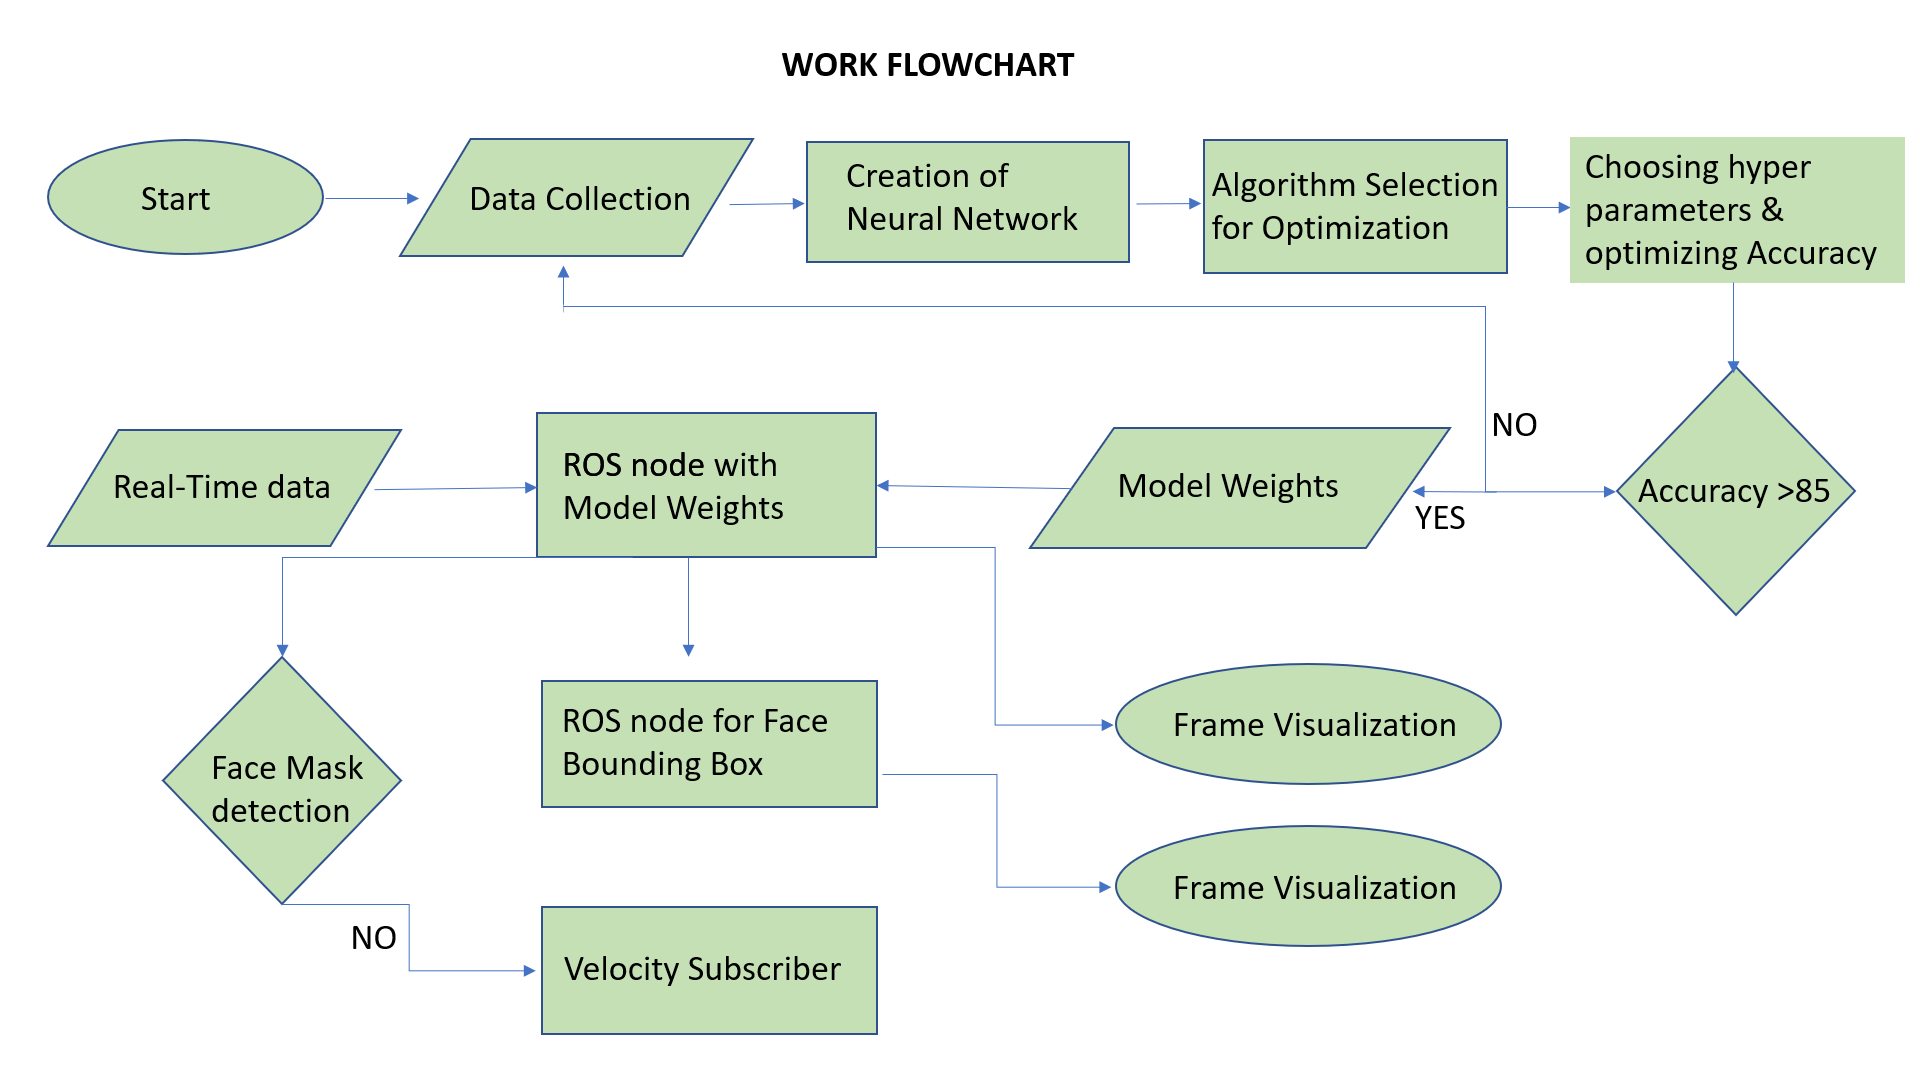
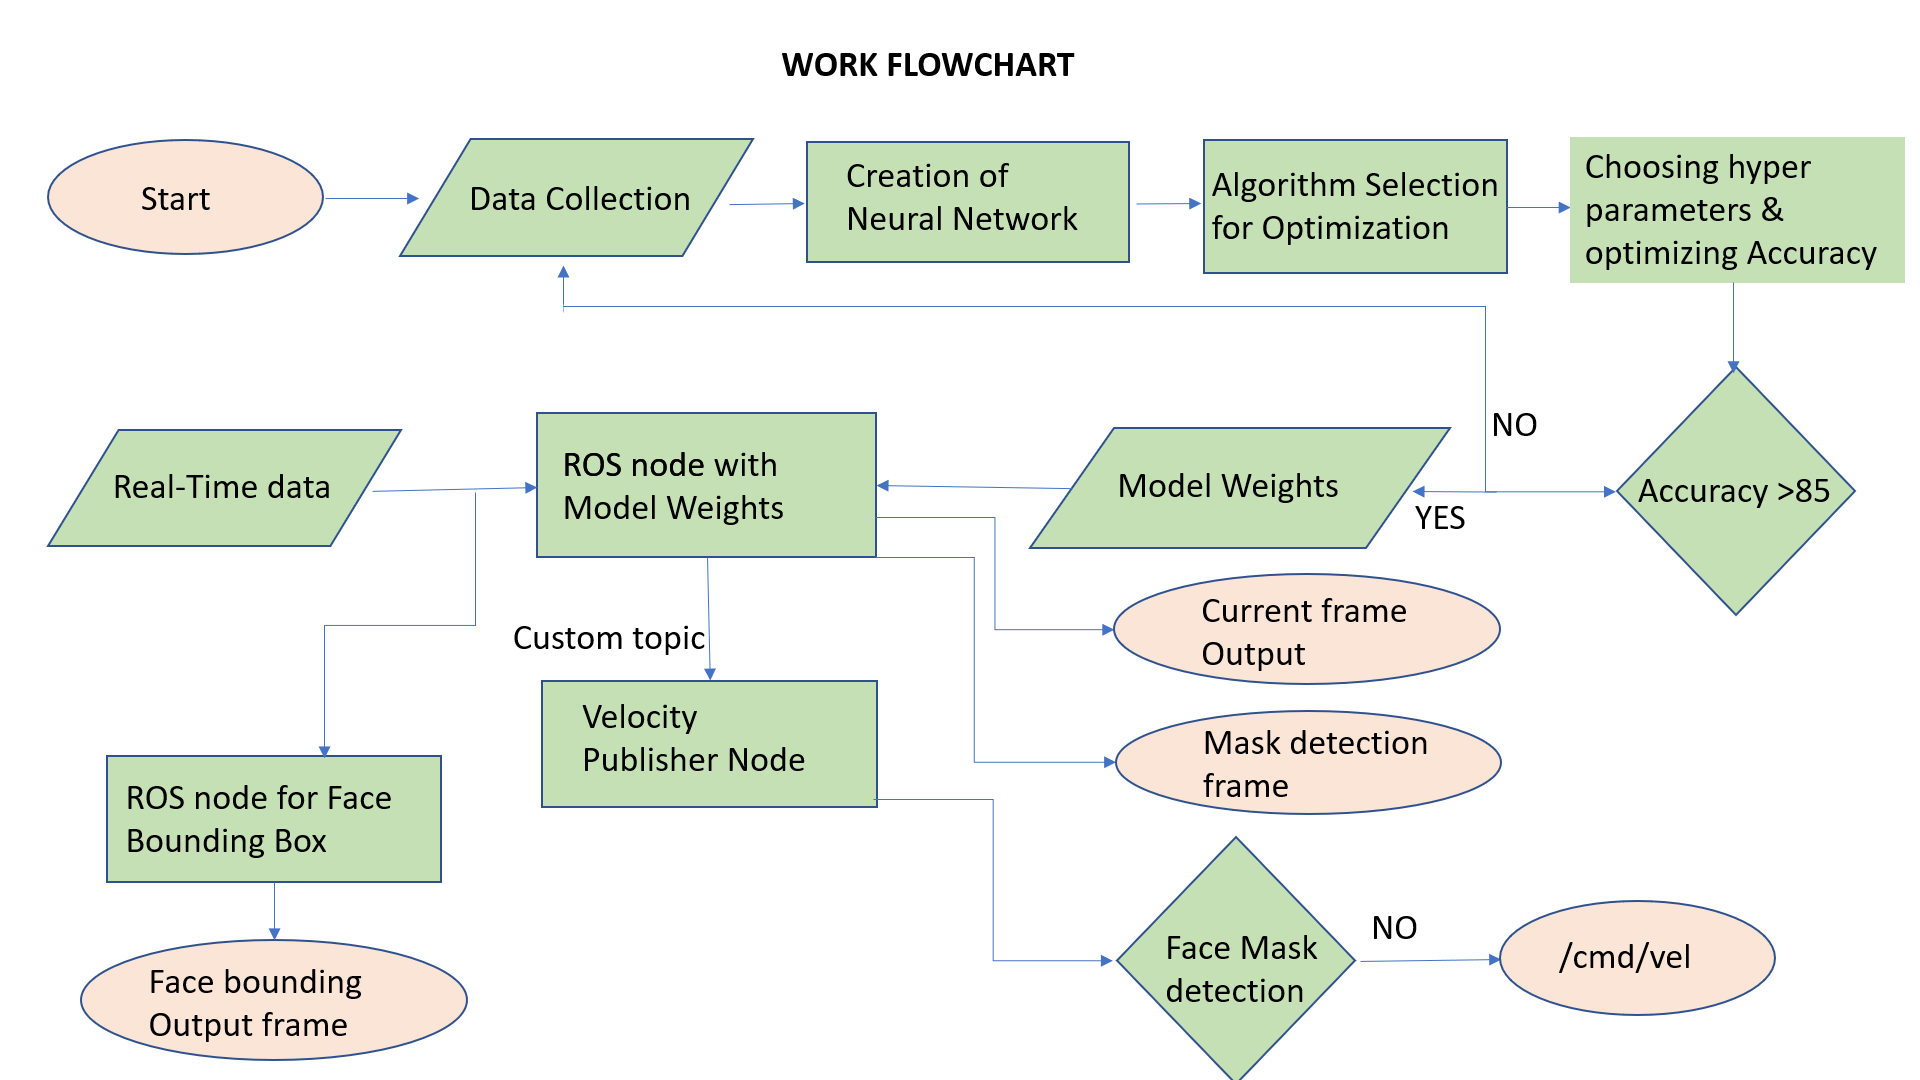
Add files via upload

diff --git a/index.html b/index.html
@@ -55,9 +55,7 @@
     </li>
     <li class="toctree-l2"><a class="reference internal" href="#f-videos-of-working-model">f. Videos of Working Model</a>
     </li>
-    <li class="toctree-l2"><a class="reference internal" href="#f-goals-process-and-results">f. Goals, Process and Results</a>
-    </li>
-    <li class="toctree-l2"><a class="reference internal" href="#project-layout">Project layout</a>
+    <li class="toctree-l2"><a class="reference internal" href="#g-goals-process-and-results">g. Goals, Process and Results</a>
     </li>
     </ul>
                 </li>
@@ -107,24 +105,25 @@
             <div class="section" itemprop="articleBody">
               
                 <h1 id="introduction">Introduction</h1>
-<p>The main objective of this project is to detect the absence or presence of facemask using the OAK-D camera feed of turtlebot by deploying Neural Networks.</p>
-<p>If the turtlebot camera detects a face without mask, it'll move towards the detected face. </p>
+<p>The main objective of this project is to detect the absence or presence of facemask using the OAK-D camera feed of turtlebot by deploying Neural Networks.
+If the turtlebot camera detects a face without mask, it displays the output image as 'without mask' and move towards the detected face.</p>
+<p>Training data and Neural network for mask detection is custom made, MTCNN (inbuilt algorithm) is being used for face coordinates.</p>
 <h2 id="a-updatesrefreshes">a. Updates/Refreshes</h2>
 <ol>
-<li>We made our own Neural Network for the feature generation by taking current_frames from OAK-D camera.</li>
+<li>We made our own Neural Network for the feature generation by taking training data of images from OAK-D camera.</li>
 <li>From the custom NN model, We deployed model_weights to ROS node which does face mask recognition in real time by subscribing to real time data current_frame.</li>
 <li>We used inbuilt software called MTCNN face detection algorithm for creation of the bounding box for faces which is also subscribing to real time data current_frame.</li>
-<li>If the custom model is detecting face without maask, it publishes velocity to move towards that face by using Velocity subscriber Node.</li>
+<li>We published a custom topic /go/image from face mask recognition ROS node to MTCNN_vel_pub node which is subscriber to /go/image and publishes /cmd/vel.</li>
+<li>If the MTCNN_vel_det is being sent face without mask, it publishes velocity to move towards that face by using Face bounding box coordinates.</li>
 </ol>
+<p>We tried mapping classroom environment, but due to constraints we sticked to main scope of project which is NN deployment. We aim to improve by performing dynamic obstacle avoidance (SLAM).</p>
 <h2 id="b-project-process">b. Project Process</h2>
-<ul>
-<li><code>mkdocs new [dir-name]</code> - Create a new project.</li>
-<li><code>mkdocs serve</code> - Start the live-reloading docs server.</li>
-<li><code>mkdocs build</code> - Build the documentation site.</li>
-<li><code>mkdocs -h</code> - Print help message and exit.</li>
-</ul>
-<h2 id="c-work-flow">c. Work Flow</h2>
+<p>Although we were able to deploy custom model to ROS node in the previous week, Due to accuracy and some other constraints we revised the schedule from the last week and performed required tasks such as data collection and real time deployment with iterations.</p>
+<p>Following is the <strong>Process chart</strong>:</p>
+<p><img alt="Home" src="img/gantt.png" /></p>
+<p>The <strong>complete work flow of our project</strong> as follows:</p>
 <p><img alt="Home" src="img/Screenshot.png" /></p>
+<h2 id="c-work-flow">c. Work Flow</h2>
 <ul>
 <li>
 <p>Initially we collected dataset consisting of huge variations i.e 
@@ -133,17 +132,19 @@ Face with mask and Without Mask at different distances from OAK-D camera at diff
 <li>
 <p><strong>Few Instances of preliminary dataset</strong></p>
 </li>
-<li><strong>With Face Mask</strong>  -  If the frame has frame consisting of face with mask</li>
+<li><strong>With Face Mask</strong>  -  If the frame has a face with mask. - Class 0</li>
 </ul>
 <p><img alt="H" src="img/Picture1.jpg" /><img alt="j" src="img/Picture2.jpg" /><img alt="I" src="img/Picture3.jpg" /><img alt="II" src="img/Picture4.jpg" /><img alt="I" src="img/Picture5.jpg" /><img alt="I" src="img/Picture8.jpg" /></p>
 <ul>
-<li><strong>Without Face Mask</strong> - If the frame has consisting of face without mask and some ambiguity cases of half frames and fully blurred faces.</li>
+<li><strong>Without Face Mask</strong> - If the frame has a face without mask and some ambiguity cases of half frames and fully blurred faces. - Class 1</li>
 </ul>
 <p><img alt="H" src="img/Picture12.jpg" /><img alt="j" src="img/Picture13.jpg" /><img alt="I" src="img/Picture14.jpg" /><img alt="II" src="img/Picture15.jpg" /><img alt="I" src="img/Picture17.jpg" /><img alt="I" src="img/Picture18.jpg" /></p>
 <ul>
-<li><strong>No recognizable face in Frame</strong> - If the frame has no recognizable face and some distant images which are very unclear.</li>
+<li><strong>No recognizable face in Frame</strong> - If the frame has no recognizable face and some distant images which are very unclear. - Class 2</li>
 </ul>
 <p><img alt="H" src="img/Picture31.jpg" /><img alt="j" src="img/Picture30.jpg" /><img alt="I" src="img/Picture24.jpg" /><img alt="II" src="img/Picture25.jpg" /><img alt="I" src="img/Picture27.jpg" /><img alt="I" src="img/Picture29.jpg" /></p>
+<p><strong>Custom Neural Network for Face mask Detection:</strong></p>
+<p><img alt="H" src="img/NN.png" /></p>
 <p>Then with the custom Neural Network we devloped, we generated feature maps which shows as following:</p>
 <p><img src="./img/Picture34.png" alt="Image 1" width="300" height="300">
 <img src="./img/Picture33.png" alt="Image 1" width="300" height="300">
@@ -151,9 +152,10 @@ Face with mask and Without Mask at different distances from OAK-D camera at diff
 <img src="./img/Picture32.png" alt="Image 1" width="300" height="300"></p>
 <p>Even in this zoomed in images, the amount of pixels covering pixels are very few and very difficult to classify the images based on mask from the limited data with high number of variations.</p>
 <ul>
-<li>Although training Acuuracy is good by optimizing the algorithm and increasing number of epochs, <strong>testing accuracy is not good with only 65%</strong>. If we perform real time detection with this, it would be highly inaccurate.</li>
+<li>Although training Accuracy is good by optimizing the algorithm and increasing number of epochs, <strong>testing accuracy is not good with only 65%</strong>. If we perform real time detection with this, it would be highly inaccurate.</li>
 </ul>
 <p><img src="./img/Error.png" alt="Image 1" width="500" height="500"></p>
+<p><strong>Counter Measures</strong></p>
 <ul>
 <li>
 <p>We updated the Training data with Face with and without mask at limited distance at proper light source with few gestures.</p>
@@ -161,7 +163,7 @@ Face with mask and Without Mask at different distances from OAK-D camera at diff
 <li>
 <p><strong>Few Instances of preliminary dataset</strong></p>
 </li>
-<li><strong>With Face Mask</strong>  -  If the frame has frame consisting of face with mask</li>
+<li><strong>With Face Mask</strong>  -  If the frame has face with mask</li>
 </ul>
 <p><img src="./img/wm1.jpg" alt="Image 1" width="200" height="200">
 <img src="./img/wm2.jpg" alt="Image 1" width="200" height="200">
@@ -179,80 +181,128 @@ Face with mask and Without Mask at different distances from OAK-D camera at diff
 <img src="./img/n2.jpg" alt="Image 1" width="200" height="200">
 <img src="./img/n3.jpg" alt="Image 1" width="200" height="200"></p>
 <ul>
-<li>After Training on data, we got adequate accuracy in Training along with a <strong>good amount of testing accuracy of 89%</strong></li>
-<li>we split the data into Training and Testing in 90% and 10% and Training accuracy as follows:</li>
-<li>Training data Classification:
-<img src="./img/Training_data.png" alt="Image 1" width="500" height="500"></li>
+<li>
+<p>we split the data into Training and Testing in 90% and 10% and Training accuracy as follows:</p>
+</li>
+<li>
+<p>Training data Classification:
+<img src="./img/Training_data.png" alt="Image 1" width="500" height="500"></p>
+</li>
 <li>
 <p>Testing data Classification:
 <img src="./img/Testing_data.png" alt="Image 1" width="500" height="500"></p>
+</li>
+<li>
+<p>After Training on data, we got adequate accuracy in Training along with a <strong>good amount of testing accuracy of 89%</strong></p>
 </li>
 <li>
 <p>Training Accuracy:</p>
 </li>
 </ul>
 <p><img src="./img/Final_accuracy.png" alt="Image 1" width="500" height="500"></p>
+<ul>
+<li>
+<p>With 89% testing accuracy, we tested on few absolute new images as well before deploying to ROS node for real time detection.
+It is predicting good, doesn't take much time as well. </p>
+</li>
+<li>
+<p>We transferred the model_infernce to ROS node using tensorflow.</p>
+</li>
+</ul>
 <h2 id="d-ros-network">d. ROS Network</h2>
+<ul>
+<li>
+<p>With model being imported, we created total of 3 nodes and 1 custom topic to complete actions.</p>
+</li>
+<li>
+<p><strong>Mask Detector node</strong> is a subscriber to /color/image and publishes custom topic /go/image, displays output windows of current frame and detection frame.</p>
+</li>
+<li><strong>face Detector node</strong> is a subscriber to /color/image and displays output window of bounding box.</li>
+<li>
+<p><strong>face tracking</strong> node is a subscriber to /go/image and publishes /cmd/vel.</p>
+</li>
+<li>
+<p><strong>Complete ROS architecture</strong></p>
+</li>
+</ul>
+<p><img alt="H" src="img/rosgraph_overall.png" />
+      rqt_gul_py for the generation of ROS graph is also shown in the graph.</p>
 <h2 id="e-tradeoffs">e. Tradeoffs</h2>
 <p><strong>Main Challenges</strong>  </p>
 <ol>
 <li>
-<p>Training time</p>
+<p><strong>Training time</strong></p>
 <ul>
 <li>As the Neural Network model is heavy, we trained set of images in GPU and obtained the model.
   Then transferred the model weights to ROS node to take one frame at a time.This has no lag and almost accurate.</li>
 </ul>
 </li>
 <li>
-<p>Movement of Turtlebot</p>
+<p><strong>Movement of Turtlebot</strong></p>
 <ul>
 <li>For the Face detection and creating a bounding box, it takes more time in real time.As a result, output window with bounding box has a lag of few seconds.
   Which inturn carries the lag in moving the turtlebot towards the bounding box containing face without the mask.</li>
 </ul>
 </li>
 <li>
-<p>Detection vs Movement</p>
+<p><strong>Detection vs Movement</strong></p>
 <ul>
 <li>Although Face mask detection takes place at real time, turtlebot is moving after few moments later the detection and viceversa.</li>
 </ul>
 </li>
 </ol>
-<p><strong>Constraints</strong></p>
+<p><strong>Tradeoffs due to constraints</strong></p>
 <ol>
 <li>
-<p>Fitting Training data</p>
+<p><strong>Fitting Training data</strong></p>
 <ul>
 <li>We used Adam algorithm to save the training time.</li>
 <li>We chose number of epochs to 5 to not overfit on training data by considering bias and variance trade off.</li>
+<li>If we furthur increase the number of epochs, we may lose the testing accuracy.</li>
 </ul>
 </li>
 <li>
-<p>Non Generalized Detection</p>
+<p><strong>Non Generalized Detection</strong></p>
 <ul>
 <li>As the dataset is limited, detection using OAK-D camera at different environment with different person is not feasible.</li>
 <li>To detect, proper lighting and limited distance to the camera are required.</li>
-<li>With limited training data, we are able to test at few places with absolute faces successfully.</li>
+<li>With limited training data, we are able to test at few places with absolute new faces successfully.</li>
 </ul>
 </li>
 <li>
-<p>Bounding box trade off</p>
+<p><strong>Bounding box trade off</strong></p>
 <ul>
 <li>We used face detection algorithm along with velocity subscriber not with face mask detector to increase the speed of detection.</li>
-<li>It significantly increased the speed of detection by almost 2 to 3 sec.</li>
+<li>It significantly increased the speed of detection by almost 2 to 3 sec at the cost of movement of bot.</li>
 </ul>
 </li>
 </ol>
+<p>In overall process, we gave stress to reduce type 2 error <strong>(False Negative)</strong>.<br />
+1. As it is a face mask detection, a person without mask should be detected properly. <br />
+2. If the bot has ambiguous case like image is blur or face is not complete in the frame, it is mostly detected as face without mask.<br />
+3. If the face is mostly out of the frame, it is being detected as no face recognized.<br />
+4. We trained the data accordingly to reduce the false negatives due to which there may be few errors during the transition of frames such as face entering or exiting the frame.  </p>
 <h2 id="f-videos-of-working-model">f. Videos of Working Model</h2>
-<p><strong>RealTime detection of Presence or Ansence of mask with absolute zero training of Person's face</strong></p>
+<p><strong>Video 2- AMBIGUOUS CASE TESTING WITH NO TRAINING</strong></p>
+<ul>
+<li><strong>Real time video of turtlebot detecting face without mask</strong>:   </li>
+<li>In this video, Mask is being pulled down and not covering the face. We have not trained this ambiguous cases earlier, still it is successfully detecting the classification.</li>
+</ul>
+<p><strong>Video 2- AMBIGUOUS CASE TESTING WITH NO TRAINING</strong></p>
+<iframe width="560" height="315" src="https://www.youtube.com/embed/HcZVg-6S_Ns" title="YouTube video player" frameborder="0" allow="accelerometer; autoplay; clipboard-write; encrypted-media; gyroscope; picture-in-picture; web-share" allowfullscreen></iframe>
+
+<p><strong>RealTime detection of Presence or Ansence of mask with absolute zero training of Person's face</strong>
+*  In this video, Face present in the frame is not at all used in training data. It is still successfully able to detect the classification accurately and moving towards the face without mask.</p>
+<p><strong>Video 3 - ABSOLUTE UNKNOWN FACE TESTING</strong></p>
 <iframe width="560" height="315" src="https://www.youtube.com/embed/pe2afb0SzxE" title="YouTube video player" frameborder="0" allow="accelerometer; autoplay; clipboard-write; encrypted-media; gyroscope; picture-in-picture; web-share" allowfullscreen></iframe>
 
-<h2 id="f-goals-process-and-results">f. Goals, Process and Results</h2>
-<h2 id="project-layout">Project layout</h2>
-<pre><code>mkdocs.yml    # The configuration file.
-docs/
-    index.md  # The documentation homepage.
-    ...       # Other markdown pages, images and other files.
-</code></pre>
+<h2 id="g-goals-process-and-results">g. Goals, Process and Results</h2>
+<ul>
+<li>An insight of Project Goals and procedure that we have followed and results obtained are briefly discussed in this:</li>
+</ul>
+<iframe width="560" height="315" src="https://www.youtube.com/embed/1o9Nh7-eACc" title="YouTube video player" frameborder="0" allow="accelerometer; autoplay; clipboard-write; encrypted-media; gyroscope; picture-in-picture; web-share" allowfullscreen></iframe>
+
+<p>sss</p>
               
             </div>
           </div><footer>
@@ -304,5 +354,5 @@ docs/
 
 <!--
 MkDocs version : 1.4.2
-Build Date UTC : 2023-05-03 12:27:42.067076+00:00
+Build Date UTC : 2023-05-04 02:06:49.025374+00:00
 -->

diff --git a/Listing/index.html b/Listing/index.html
@@ -49,9 +49,11 @@
     <ul class="current">
     <li class="toctree-l2"><a class="reference internal" href="#code-repository">Code repository</a>
     </li>
-    <li class="toctree-l2"><a class="reference internal" href="#install-to-run">Install to run</a>
+    <li class="toctree-l2"><a class="reference internal" href="#dependencies">Dependencies</a>
     </li>
-    <li class="toctree-l2"><a class="reference internal" href="#datset-used">DATSET used</a>
+    <li class="toctree-l2"><a class="reference internal" href="#installations">Installations</a>
+    </li>
+    <li class="toctree-l2"><a class="reference internal" href="#datset">DATSET</a>
     </li>
     </ul>
                 </li>
@@ -103,6 +105,7 @@ NN Code File, <a href="https://github.com/PraveenPaidi/Robotics_Deployment/blob/
 Mask Detector, <a href="https://github.com/PraveenPaidi/Robotics_Deployment/blob/main/code/MaskDetector.py">Mask detector</a><br />
 Face Bounding Box, <a href="https://github.com/PraveenPaidi/Robotics_Deployment/blob/main/code/MTCNNFaceDetector.py">Bounding box</a><br />
 Velocity Publisher, <a href="https://github.com/PraveenPaidi/Robotics_Deployment/blob/main/code/MTCNNFaceDetVelPub.py"> velocity publisher </a>   </p>
+<h2 id="dependencies">Dependencies</h2>
 <ul>
 <li>
 <p>Programming Language: Python 3.8.10</p>
@@ -120,11 +123,8 @@ Velocity Publisher, <a href="https://github.com/PraveenPaidi/Robotics_Deployment
 <li>cv2 Bridge: 3.1.3</li>
 </ul>
 </li>
-<li>
-<p>Commit ID:</p>
-</li>
 </ul>
-<h2 id="install-to-run">Install to run</h2>
+<h2 id="installations">Installations</h2>
 <pre><code>pip install numpy==1.23.5
 pip install scipy==1.10.1
 pip install matplotlib==3.1.2
@@ -133,7 +133,12 @@ pip install tensorflow==2.12.0
 pip install MTCNN==0.1.1
 pip install opencv-python-headless==3.1.3.4
 </code></pre>
-<h2 id="datset-used">DATSET used</h2>
+<h2 id="datset">DATSET</h2>
+<p>Dataset and model, <a href="https://drive.google.com/drive/folders/19xy0I2_EiuokDAGNXcE7CRvajET1cRdu?usp=sharing">Complete Folder</a>  </p>
+<p>Size of the Dataset- 69 Mb 
+Dataset, <a href="https://drive.google.com/file/d/1I8VEHIwnt5bv7WUA_SPy2rT_REPMzBDs/view?usp=sharing">Dataset</a> </p>
+<p>Although you can get model after running the code on provided dataset, we are providing just for reference.
+Model, <a href="https://drive.google.com/file/d/1618J9aJiB3b-r0vR9eMuAqS21Zp2_raO/view?usp=sharing">Model</a></p>
               
             </div>
           </div><footer>

diff --git a/Face_Bounding_box/index.html b/Face_Bounding_box/index.html
@@ -130,15 +130,12 @@ class FaceDetectorNode(Node):
     def image_callback(self, msg):
     # Convert ROS image message to OpenCV image
     image = self.bridge.imgmsg_to_cv2(msg)
-
     # Detect faces in the image
     faces = self.detector.detect_faces(image)
-
     # Draw bounding boxes around the detected faces
     for face in faces:
         x, y, width, height = face['box']
         cv2.rectangle(image, (x, y), (x+width, y+height), (0, 255, 0), 2)
-
     # Display the output image
     cv2.imshow('Output', image)
     cv2.waitKey(1)

diff --git a/code/MaskDetector.py b/code/MaskDetector.py
@@ -12,21 +12,26 @@ from tensorflow.keras.models import load_model
 from geometry_msgs.msg import Twist
 
 
+
+#print('hI')
 class MaskDetector(Node):
 
     def __init__(self):
-        super().__init__('subscriber')
+        super().__init__('mask_detector')
         #self.detection_window = detection_window  
         self.br = CvBridge()
         print("Subscribed to the video feed>>>>")
         self.subscription = self.create_subscription(Image,'/color/image', self.listener_callback, 10)  
         self.model = load_model(r'/home/ksubra25/Downloads/model_for_inference.h5')
         
+        
         #### Publisher ####
         self.publisher = self.create_publisher(Image,'/go/image', 10)
         #self.point = Point()
         self.vel = Twist()
-       
+        
+    
+        
     def listener_callback(self,data):
         
         current_frame = self.br.imgmsg_to_cv2(data)
@@ -34,9 +39,10 @@ class MaskDetector(Node):
         current_frame=cv2.resize(current_frame,(300,300))
         current_frame=cv2.cvtColor(current_frame,cv2.COLOR_BGR2RGB)
         self.new_frame = current_frame
-        current_frame= current_frame/255.0
         cv2.imshow("image",current_frame)
+        current_frame= current_frame/255.0
         current_frame= np.expand_dims(current_frame,axis=0)
+        
         predictions=self.model.predict(current_frame)
         class_idx=np.argmax(predictions)
         if class_idx==0:
@@ -46,10 +52,15 @@ class MaskDetector(Node):
             self.publisher.publish(self.br.cv2_to_imgmsg(send_frame))
         else:
             label='no face detected'
-          
+        
+           
         cv2.putText(self.new_frame,label,(10,30),cv2.FONT_HERSHEY_SIMPLEX,1.0,(0,255,0),2)
         cv2.imshow('Detection',self.new_frame)     
+        
+        
+        
         cv2.waitKey(1)
+        #cv2.distroyAllWindows()
         
 def main(args=None):
 

diff --git a/code/MTCNNFaceDetVelPub.py b/code/MTCNNFaceDetVelPub.py
@@ -25,9 +25,12 @@ class FaceTrackingNode(Node):
             height, width, channels = cv_image.shape
             error_x = center_x - width/2
             error_y = center_y - height/2
+            print(error_x)
             twist_msg = Twist()
-            twist_msg.linear.x = 0.05  # set linear speed
-            twist_msg.angular.z = -0.001 * error_x  # set angular speed based on error
+            twist_msg.linear.x = 0.07  # set linear speed
+            print('Moving straight towards face without mask')
+            twist_msg.angular.z = -0.0008 * error_x  # set angular speed based on error
+            print('Taking Steer turn towards face without mask')
             self.publisher.publish(twist_msg)
 
 def main(args=None):

diff --git a/code/MTCNNFaceDetector.py b/code/MTCNNFaceDetector.py
@@ -30,7 +30,7 @@ class FaceDetectorNode(Node):
             cv2.rectangle(image, (x, y), (x+width, y+height), (0, 255, 0), 2)
 
         # Display the output image
-        cv2.imshow('Output', image)
+        cv2.imshow('FACE_DETECTOR', image)
         cv2.waitKey(1)
 
 def main(args=None):
